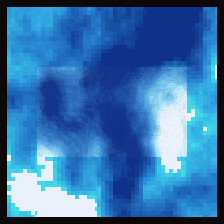
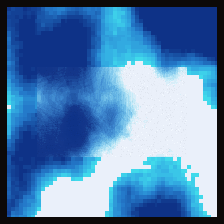
feat(nd): 1/f terrain heightmap continuum and normalized hillshading without magic numbers

diff --git a/external/nd-world/include/nd/field.h b/external/nd-world/include/nd/field.h
@@ -73,21 +73,41 @@ static const octave_t ND_FIELD_COARSE_TM_OCTAVES[] = {
 };
 #define ND_FIELD_COARSE_TM_COUNT (sizeof(ND_FIELD_COARSE_TM_OCTAVES)/sizeof(ND_FIELD_COARSE_TM_OCTAVES[0]))
 
-/* Fine client octave specifications (shifts in world units: 256, 128, 64, 32, 16) */
+/*
+ * 1/f Fractal terrain octave specifications.
+ * Governed by two clean declarative parameters:
+ *   - ND_FIELD_1F_SCALE: single base amplitude constant.
+ *   - ND_FIELD_OCTAVE_COUNT: number of intermediate octaves.
+ *
+ * Under 1/f pink noise, octave amplitude scales strictly with wavelength (A ~ lambda ~ 2^shift),
+ * ensuring that every octave across the continuum—from room-scale rolling hills down to
+ * fine surface slope—has an identical characteristic surface gradient (A / lambda = constant).
+ *
+ * Adding more octaves (e.g. changing 6 to 7 or 8) smoothly introduces higher macro features
+ * (shift = MIN_SHIFT + k) without altering lower octaves or static tables.
+ */
+#define ND_FIELD_1F_SCALE        1
+#define ND_FIELD_FINE_MIN_SHIFT  4
+#define ND_FIELD_OCTAVE_COUNT    6
+
+#define ND_FIELD_FINE_COUNT      ND_FIELD_OCTAVE_COUNT
+#define ND_FIELD_FINE_AMP_BUDGET (((1 << ND_FIELD_OCTAVE_COUNT) - 1) * ND_FIELD_1F_SCALE)
+
+#define ND_FIELD_NOISE_DIM       2
+#define ND_FIELD_NOISE_PRECISION 8
+#define ND_FIELD_NOISE_MID       128
+#define ND_FIELD_NOISE_SHIFT     16
+
+#define ND_FIELD_STENCIL_SPAN    4
+
+#define ND_SHADE_NEUTRAL         256
+#define ND_SHADE_MIN             0
+#define ND_SHADE_MAX             ((ND_SHADE_NEUTRAL * 2) - 1)
+
 typedef struct {
 	uint8_t shift;
 	int16_t amp;
 } nd_field_fine_octave_t;
-
-static const nd_field_fine_octave_t ND_FIELD_FINE_OCTAVES[] = {
-	{ 8, 14 },
-	{ 7,  8 },
-	{ 6,  4 },
-	{ 5,  2 },
-	{ 4,  1 },
-};
-#define ND_FIELD_FINE_COUNT (sizeof(ND_FIELD_FINE_OCTAVES)/sizeof(ND_FIELD_FINE_OCTAVES[0]))
-#define ND_FIELD_FINE_AMP_BUDGET 29
 
 /* Climate primitives matching noise.c */
 static inline uint32_t
@@ -317,12 +337,14 @@ nd_field_sample(uint16_t world, uint8_t lod, int32_t wx, int32_t wy)
 	int16_t fine_h = 0;
 	if (lod > 0) {
 		uint32_t fine_seed = 0x48454947u ^ ((uint32_t)world * 0x9E3779B1u);
-		for (size_t i = 0; i < ND_FIELD_FINE_COUNT; i++) {
-			uint32_t oct_seed = fine_seed ^ (uint32_t)(i * 0x85EBCA77u + 1);
-			int16_t p[2] = { (int16_t)wy, (int16_t)wx };
-			uint32_t raw = noise_wpoint_n(p, ND_FIELD_FINE_OCTAVES[i].shift, 8, oct_seed, 2, NOISE_FADE);
-			int32_t val = (int32_t)(raw >> 16) - 128;
-			fine_h += (int16_t)((val * ND_FIELD_FINE_OCTAVES[i].amp) / 128);
+		for (uint8_t k = 0; k < ND_FIELD_OCTAVE_COUNT; k++) {
+			uint8_t shift = (uint8_t)(ND_FIELD_FINE_MIN_SHIFT + (ND_FIELD_OCTAVE_COUNT - 1 - k));
+			int16_t amp = (int16_t)(ND_FIELD_1F_SCALE << (shift - ND_FIELD_FINE_MIN_SHIFT));
+			uint32_t oct_seed = fine_seed ^ (uint32_t)(k * 0x85EBCA77u + 1);
+			int16_t p[ND_FIELD_NOISE_DIM] = { (int16_t)wy, (int16_t)wx };
+			uint32_t raw = noise_wpoint_n(p, shift, ND_FIELD_NOISE_PRECISION, oct_seed, ND_FIELD_NOISE_DIM, NOISE_FADE);
+			int32_t val = (int32_t)(raw >> ND_FIELD_NOISE_SHIFT) - ND_FIELD_NOISE_MID;
+			fine_h += (int16_t)((val * amp) / ND_FIELD_NOISE_MID);
 		}
 	}
 	s.fine_elev = fine_h;

diff --git a/tests/unit/test_seven_render.c b/tests/unit/test_seven_render.c
@@ -194,9 +194,9 @@ int main(void)
 		int r = (int)(c & 0xFF), g = (int)((c >> 8) & 0xFF), b = (int)((c >> 16) & 0xFF);
 		assert(r < 50 && g < 100 && b > 100);
 
-		/* 2. Coastal transect in world 1 at (-17, -20) -> (-16, -20):
-		 * Terrain rises from submerged seabed (-7) to dry land (0..+4). */
-		set_map(-16, -20, 0, 0x1B, 0, 0, 0, 0);
+		/* 2. Coastal transect in world 1 at (-19, -20) -> (-18, -20):
+		 * Terrain rises from submerged seabed (-18) to dry land (0). */
+		set_map(-18, -20, 0, 0x1B, 0, 0, 0, 0);
 		st.map_data.pos[3] = 1;
 		nd_seven_render(fb2, 1280, 720, &st);
 		dump("water_coastal", fb2, 1280, 720);
@@ -204,7 +204,7 @@ int main(void)
 		/* Along the transect approaching the shore, depth decreases monotonically */
 		int prev_d = 999;
 		int depths_seen = 0;
-		for (int wx = -17 * 160 + 64; wx <= -16 * 160 + 80; wx += 16) {
+		for (int wx = -19 * 160; wx <= -18 * 160; wx += 16) {
 			nd_field_sample_t s = nd_field_sample(1, 3, wx, -(-20) * 128 + 64);
 			assert(s.depth <= prev_d);
 			prev_d = s.depth;
@@ -223,7 +223,7 @@ int main(void)
 		assert(c_land != c_shallow);
 
 		/* Underwater substrate displays authentic biomes */
-		nd_field_sample_t s_under = nd_field_sample(1, 3, -17 * 160, -(-20) * 128 + 64);
+		nd_field_sample_t s_under = nd_field_sample(1, 3, -19 * 160, -(-20) * 128 + 64);
 		assert(s_under.depth > 0);
 		assert(s_under.bio != 0); /* authentic substrate under water */
 	}

diff --git a/tests/unit/test_seven_world.c b/tests/unit/test_seven_world.c
@@ -129,7 +129,7 @@ int main(void)
 		memset(&map, 0, sizeof(map));
 		map.width = map.height = 7;
 		map.player_x = map.player_y = 3;
-		map.pos[0] = 0; map.pos[1] = 0; map.pos[2] = 0; map.pos[3] = 0;
+		map.pos[0] = -19; map.pos[1] = -20; map.pos[2] = 0; map.pos[3] = 1;
 		for (int i = 0; i < 49; i++) {
 			map.tiles[i].bio_idx = 0; /* water */
 			map.tiles[i].exits = 0x1B;
@@ -148,7 +148,7 @@ int main(void)
 		nd_client_state_t st;
 		memset(&st, 0, sizeof(st));
 		st.map_data = map;
-		int16_t r_pos[4] = { 0, 0, 0, 0 };
+		int16_t r_pos[4] = { -19, -20, 0, 1 };
 		ndw_tile_t own_tile = nd_seven_convert_tile(&map.tiles[3 * 7 + 3]);
 
 		nd_seven_ground_tile_render(fb_anim0, 320, 256, &st, 0, 0, r_pos, &own_tile, 0, 0);
@@ -171,11 +171,12 @@ int main(void)
 		memset(&st, 0, sizeof(st));
 		st.map_data.width = st.map_data.height = 7;
 		st.map_data.player_x = st.map_data.player_y = 3;
+		st.map_data.pos[0] = -19; st.map_data.pos[1] = -20; st.map_data.pos[2] = 0; st.map_data.pos[3] = 1;
 		for (int i = 0; i < 49; i++) {
 			st.map_data.tiles[i].bio_idx = (i % 7) <= 2 ? 10 : 0; /* land west, sea east */
 			st.map_data.tiles[i].exits = 0x1B;
 		}
-		int16_t r_pos[4] = { 0, 0, 0, 0 };
+		int16_t r_pos[4] = { -19, -20, 0, 1 };
 		ndw_tile_t own = nd_seven_convert_tile(&st.map_data.tiles[3 * 7 + 3]);
 
 		nd_seven_ground_tile_render(fa, 320, 256, &st, 0, 0, r_pos, &own, 0, 0);

diff --git a/mods/nd/ux/nd_seven_ground.c b/mods/nd/ux/nd_seven_ground.c
@@ -816,12 +816,17 @@ static nd_room_chunk_t *chunk_get_or_create(const int16_t pos[4],
 				int16_t h_s = s_h[(size_t)sy_next * 160 + sx];
 				int16_t h_n = s_h[(size_t)sy_prev * 160 + sx];
 
-				int dh_dx = (h_e - h_w);
-				int dh_dy = (h_s - h_n);
-				int shade_delta = (-dh_dx - dh_dy) * 4;
-				int shade_val = 256 + shade_delta;
-				if (shade_val < 208) shade_val = 208;
-				if (shade_val > 304) shade_val = 304;
+				int dx_step = sx_next - sx_prev;
+				int dy_step = sy_next - sy_prev;
+				int grad_x = (dx_step > 0) ? ((int)(h_e - h_w) * 2 / dx_step) : 0;
+				int grad_y = (dy_step > 0) ? ((int)(h_s - h_n) * 2 / dy_step) : 0;
+				int slope = grad_x + grad_y;
+
+				/* Diffuse hillshading: directional slope facing Northwest sun normalized by stencil span & budget */
+				int shade_delta = (slope * ND_SHADE_NEUTRAL) / (ND_FIELD_STENCIL_SPAN * ND_FIELD_FINE_AMP_BUDGET);
+				int shade_val = ND_SHADE_NEUTRAL + shade_delta;
+				if (shade_val < ND_SHADE_MIN) shade_val = ND_SHADE_MIN;
+				if (shade_val > ND_SHADE_MAX) shade_val = ND_SHADE_MAX;
 
 				/* Continuous substrate color from fs.bio, fs.bio2, fs.blend */
 				uint32_t col1 = ndw_biome_base_rgb(bio);

diff --git a/external/nd-world/include/nd/terrain.h b/external/nd-world/include/nd/terrain.h
@@ -73,11 +73,12 @@ nd_terrain_hillshade(int32_t wx, int32_t wy, uint16_t world)
 
 	int dh_dx = (h_e - h_w);
 	int dh_dy = (h_s - h_n);
+	int slope = dh_dx + dh_dy;
 
-	int shade_delta = (-dh_dx - dh_dy) * 12;
-	int shade_val = 256 + shade_delta;
-	if (shade_val < 160) shade_val = 160;
-	if (shade_val > 360) shade_val = 360;
+	int shade_delta = (slope * ND_SHADE_NEUTRAL) / (ND_FIELD_STENCIL_SPAN * ND_FIELD_FINE_AMP_BUDGET);
+	int shade_val = ND_SHADE_NEUTRAL + shade_delta;
+	if (shade_val < ND_SHADE_MIN) shade_val = ND_SHADE_MIN;
+	if (shade_val > ND_SHADE_MAX) shade_val = ND_SHADE_MAX;
 	return (uint16_t)shade_val;
 }
 
